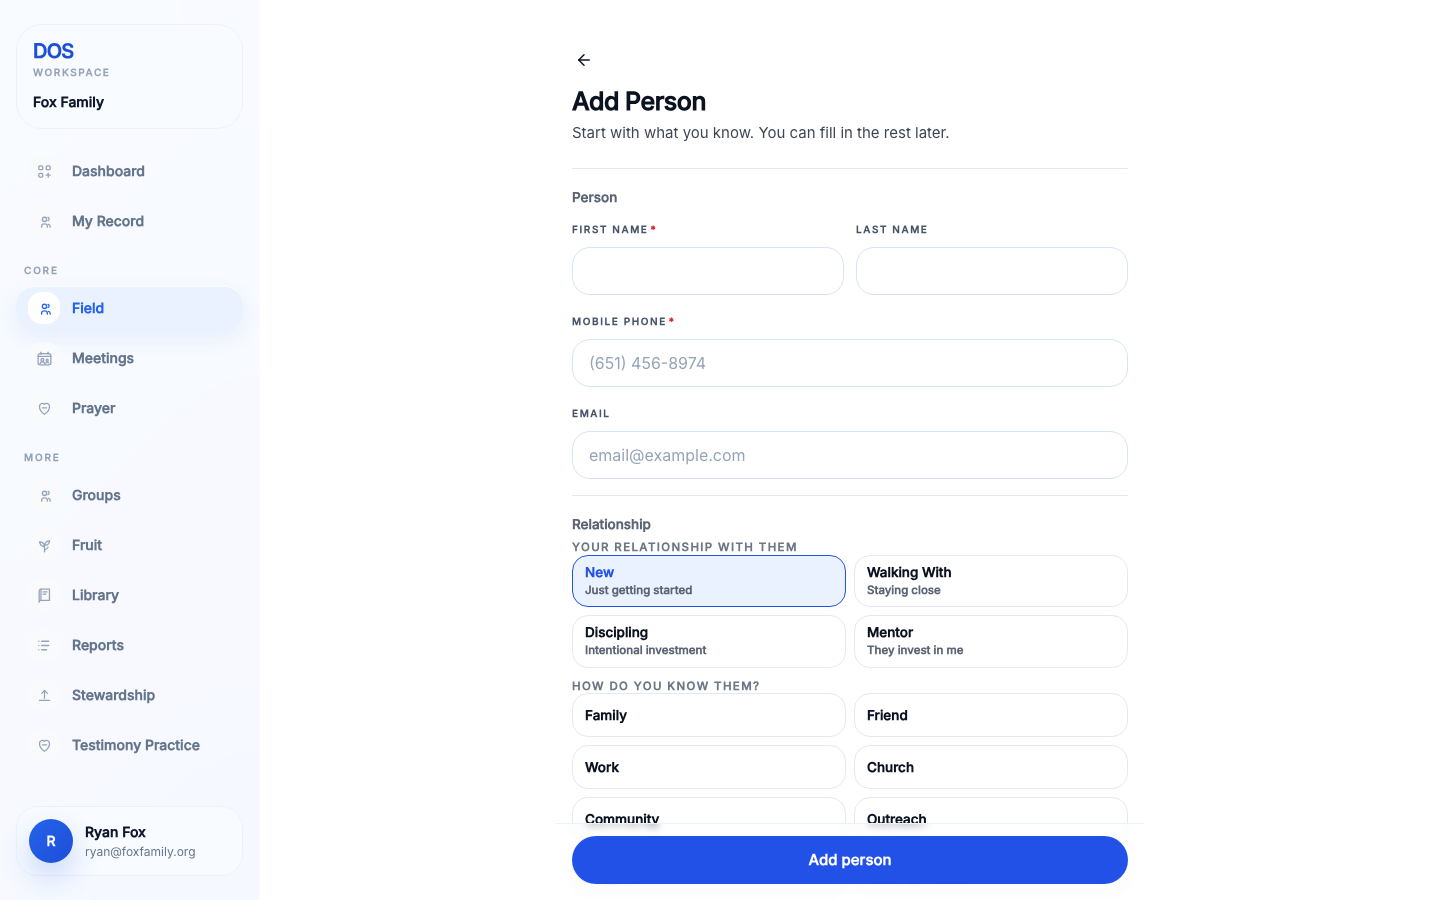
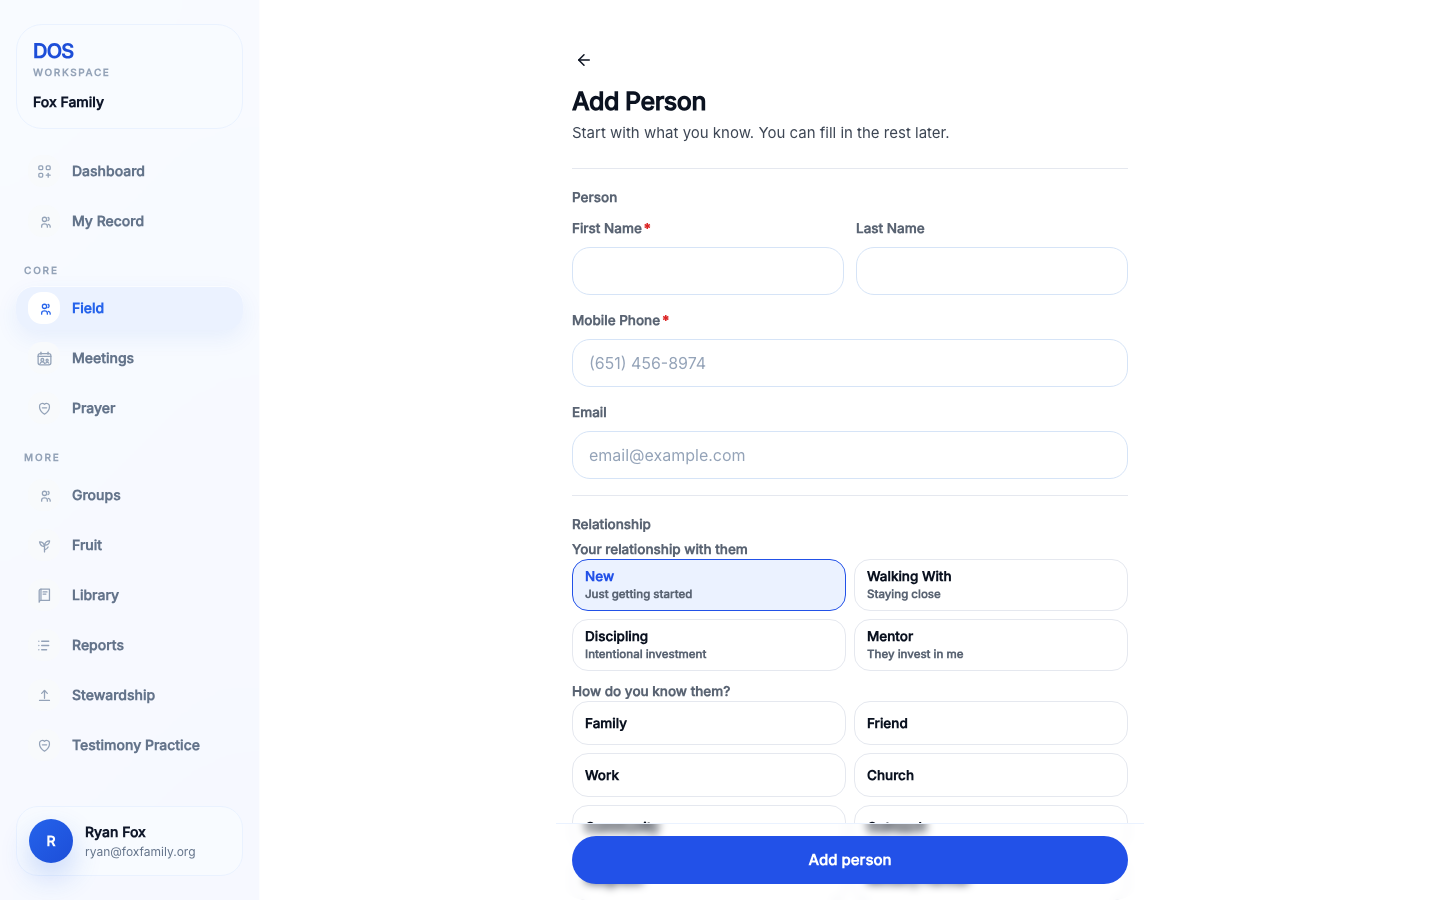
USA-217: sentence-case field labels across the Person and Schedule forms
DosDateInput gains an additive labelVariant; the Person form's 14 field
labels, Children label, two date inputs and the PersonChoiceField legends
(used only by this form), plus the Schedule date and the Log form's Remind
me date, adopt the spec §3 sentence-case label grammar. No field, default,
or behavior changed. typecheck, test:dos 40/40.

diff --git a/app/dos/app/DosMvpAppClient.tsx b/app/dos/app/DosMvpAppClient.tsx
@@ -4541,6 +4541,7 @@ function DosDateInput({
   maxYear = new Date().getFullYear() + 25,
   minYear = 1900,
   name,
+  labelVariant = "caps",
   onChange,
   required = false,
   value,
@@ -4549,6 +4550,8 @@ function DosDateInput({
   autoComplete?: string;
   defaultValue?: string | null;
   label?: ReactNode;
+  /** `caps` keeps the tracked-caps FieldLabel; `sentence` is the spec §3 label grammar (USA-217). */
+  labelVariant?: "caps" | "sentence";
   maxYear?: number;
   minYear?: number;
   name: string;
@@ -4649,7 +4652,7 @@ function DosDateInput({
 
   return (
     <div className="min-w-0">
-      {label ? <FieldLabel>{label}</FieldLabel> : null}
+      {label ? (labelVariant === "sentence" ? <span className="text-dos-label text-dos-secondary">{label}</span> : <FieldLabel>{label}</FieldLabel>) : null}
       <input name={name} readOnly type="hidden" value={isoValue} />
       <div className={`relative ${label ? "mt-2" : ""}`}>
         <input
@@ -21039,6 +21042,7 @@ function MeetingLeaderReflectionSection({
       <DosDateInput
         defaultValue={(followUpDateDefault ?? dateValueFromToday(1)).slice(0, 10)}
         label="Remind me"
+        labelVariant="sentence"
         name="follow_up_date"
       />
     </div>
@@ -21389,6 +21393,7 @@ function ScheduledTableTimingFields({
       <div className="max-w-[15rem]">
         <DosDateInput
           label="Date"
+          labelVariant="sentence"
           name={dateName}
           onChange={onDateChange}
           required
@@ -26595,7 +26600,7 @@ function PersonChoiceField({
 }) {
   return (
     <fieldset className="grid gap-2">
-      <legend className="text-[11px] font-bold uppercase tracking-[0.12em] text-dos-eyebrow">{label}</legend>
+      <legend className="text-dos-label text-dos-secondary">{label}</legend>
       {hint ? <p className="text-[12.5px] leading-[1.45] text-dos-secondary">{hint}</p> : null}
       {/* The selected value travels with the form as a plain field, so the
           submit path does not depend on this component's internals. */}
@@ -26879,14 +26884,14 @@ function PersonFormContent({
       <input name="children_names" type="hidden" value={householdDraftChildrenNames(householdDraft)} />
       <DosFormSection icon="people" title="Person" variant="label">
         <DosFormGrid>
-          <DosFormField label={<>First Name<RequiredMark /></>}>
+          <DosFormField labelVariant="sentence" label={<>First Name<RequiredMark /></>}>
             <input className={FieldInputClass()} onChange={(event) => setNameDraft((current) => ({ ...current, firstName: event.target.value }))} required value={nameDraft.firstName} />
           </DosFormField>
-          <DosFormField label="Last Name">
+          <DosFormField labelVariant="sentence" label="Last Name">
             <input className={FieldInputClass()} onChange={(event) => setNameDraft((current) => ({ ...current, lastName: event.target.value }))} value={nameDraft.lastName} />
           </DosFormField>
         </DosFormGrid>
-        <DosFormField label={<>Mobile Phone<RequiredMark /></>}>
+        <DosFormField labelVariant="sentence" label={<>Mobile Phone<RequiredMark /></>}>
           <input
             className={FieldInputClass()}
             inputMode="tel"
@@ -26901,7 +26906,7 @@ function PersonFormContent({
             value={formatPhoneNumber(phoneDraft)}
           />
         </DosFormField>
-        <DosFormField label="Email">
+        <DosFormField labelVariant="sentence" label="Email">
           <input
             className={FieldInputClass()}
             defaultValue={additionalDefaults?.email}
@@ -26985,17 +26990,17 @@ function PersonFormContent({
 
       <DisclosureSection defaultOpen={isEditMode || hasHouseholdDetails(additionalDefaults ?? {})} description="Spouse and children, kept selectable for tables." title="Household & Family">
         <DosFormGrid>
-          <DosFormField label="Spouse First Name">
+          <DosFormField labelVariant="sentence" label="Spouse First Name">
             <input className={FieldInputClass()} onChange={(event) => updateSpouseDraft("spouseFirstName", event.target.value)} value={householdDraft.spouseFirstName} />
           </DosFormField>
-          <DosFormField label="Spouse Last Name">
+          <DosFormField labelVariant="sentence" label="Spouse Last Name">
             <input className={FieldInputClass()} onChange={(event) => updateSpouseDraft("spouseLastName", event.target.value)} value={householdDraft.spouseLastName} />
           </DosFormField>
         </DosFormGrid>
-        <DosDateInput defaultValue={additionalDefaults?.anniversaryDate} label="Anniversary Date" name="anniversary_date" />
+        <DosDateInput defaultValue={additionalDefaults?.anniversaryDate} label="Anniversary Date" labelVariant="sentence" name="anniversary_date" />
         <div className="grid gap-2">
           <div className="flex items-center justify-between gap-3">
-            <FieldLabel>Children</FieldLabel>
+            <span className="text-dos-label text-dos-secondary">Children</span>
             <button
               className="inline-flex h-8 items-center rounded-full border border-[#BFDBFE] bg-white px-3 text-xs font-bold text-[#2563EB] transition-colors hover:bg-[#EBF2FF]"
               onClick={addChildDraft}
@@ -27008,10 +27013,10 @@ function PersonFormContent({
             {householdDraft.children.map((child, index) => (
               <div className="grid gap-2 rounded-[18px] border border-[#E2E8F0] bg-white p-2" key={child.id}>
                 <div className="grid gap-2 min-[420px]:grid-cols-[minmax(0,1fr)_minmax(0,1fr)_32px]">
-                  <DosFormField label="Child First Name">
+                  <DosFormField labelVariant="sentence" label="Child First Name">
                     <input className={FieldInputClass()} onChange={(event) => updateChildDraft(child.id, "firstName", event.target.value)} value={child.firstName} />
                   </DosFormField>
-                  <DosFormField label="Child Last Name">
+                  <DosFormField labelVariant="sentence" label="Child Last Name">
                     <input className={FieldInputClass()} onChange={(event) => updateChildDraft(child.id, "lastName", event.target.value)} value={child.lastName} />
                   </DosFormField>
                   <button
@@ -27030,29 +27035,29 @@ function PersonFormContent({
       </DisclosureSection>
 
       <DisclosureSection defaultOpen={isEditMode || hasAddressData} description="Address, church, birthday, and other details." title="Address & Details">
-        <DosFormField label="Home Address">
+        <DosFormField labelVariant="sentence" label="Home Address">
           <input className={FieldInputClass()} defaultValue={additionalDefaults?.homeAddress} name="home_address" placeholder="Street address" />
         </DosFormField>
         <div className="grid gap-3 min-[420px]:grid-cols-[minmax(0,1fr)_72px_86px]">
-          <DosFormField label="City">
+          <DosFormField labelVariant="sentence" label="City">
             <input className={FieldInputClass()} defaultValue={additionalDefaults?.city} name="city" />
           </DosFormField>
-          <DosFormField label="State">
+          <DosFormField labelVariant="sentence" label="State">
             <input className={FieldInputClass()} defaultValue={additionalDefaults?.state} maxLength={2} name="state" />
           </DosFormField>
-          <DosFormField label="ZIP">
+          <DosFormField labelVariant="sentence" label="ZIP">
             <input className={FieldInputClass()} defaultValue={additionalDefaults?.zip} inputMode="numeric" name="zip" />
           </DosFormField>
         </div>
         <DosFormGrid>
-          <DosFormField label="Church">
+          <DosFormField labelVariant="sentence" label="Church">
             <input className={FieldInputClass()} defaultValue={additionalDefaults?.church} name="church" placeholder="Church / community" />
           </DosFormField>
-          <DosFormField label="Occupation">
+          <DosFormField labelVariant="sentence" label="Occupation">
             <input className={FieldInputClass()} defaultValue={additionalDefaults?.occupation} name="occupation" placeholder="What do they do?" />
           </DosFormField>
         </DosFormGrid>
-        <DosDateInput autoComplete="bday" defaultValue={additionalDefaults?.birthday} label="Birthday" maxYear={new Date().getFullYear()} name="birthday" />
+        <DosDateInput autoComplete="bday" defaultValue={additionalDefaults?.birthday} label="Birthday" labelVariant="sentence" maxYear={new Date().getFullYear()} name="birthday" />
       </DisclosureSection>
 
       {/* Creating a person is the one moment where a birthday or a surgery date

diff --git a/docs/dos-ui-refresh/phase-5/usa-217-schedule-meeting-and-add-person.md b/docs/dos-ui-refresh/phase-5/usa-217-schedule-meeting-and-add-person.md
@@ -5,10 +5,10 @@ Branch `ryan/usa-217-schedule-and-person-pilot` (stacked on USA-216). Implements
 ## Routes / components changed
 | Where | Change |
 | --- | --- |
-| `ScheduleMeetingForm` | Sections Person, When, How will you connect? adopt `DosFormSection variant="label"`; the Start time / Duration pair uses sentence-case labels; primary becomes the spec `Button` reading **"Schedule"** (spec §6) inside the unchanged `StickyFormFooter`. Person picker, hidden `table_role` and `google_sync_enabled`, Notes disclosure, Google sync toggle, invitation behavior unchanged. |
+| `ScheduleMeetingForm` | Sections Person, When, How will you connect? adopt `DosFormSection variant="label"`; the Date / Start time / Duration fields use sentence-case labels (the Log form's "Remind me" date label too); primary becomes the spec `Button` reading **"Schedule"** (spec §6) inside the unchanged `StickyFormFooter`. Person picker, hidden `table_role` and `google_sync_enabled`, Notes disclosure, Google sync toggle, invitation behavior unchanged. |
 | `ScheduledDurationSelect` | Preset menu (30 / 45 / 60 / 90 / 120 + Custom minutes) → shared `Stepper`, 15-minute steps, minimum 15, no ceiling; same hidden field name and default (60); an existing scheduled duration keeps its exact minutes. |
 | `MeetingPeopleSelector` (shared by Log's search mode and Schedule) | Selected-people chips use the shared `Chip` with the same `Remove <name> <context>` labels; search input and results unchanged. |
-| `PersonFormContent` (Add / Edit Person) | Sections Person and Relationship adopt `variant="label"`; primary becomes the spec `Button`; labels "Add person" / "Save person" (spec §6). The USA-168 Basic form, its three questions, the Engagement disclosure (flag-gated), Household & Family / Address & Details / Notes disclosures, duplicate detection, and Save-outranks-Delete are unchanged. |
+| `PersonFormContent` (Add / Edit Person) | Sections Person and Relationship adopt `variant="label"`; all 14 field labels, the Children label, the two date inputs (via an additive `DosDateInput labelVariant`), and the `PersonChoiceField` legends (relationship, how you know them, person role — used only by this form) move to the sentence-case 13.5/600 grammar; primary becomes the spec `Button`; labels "Add person" / "Save person" (spec §6). The USA-168 Basic form, its three questions, the Engagement disclosure (flag-gated), Household & Family / Address & Details / Notes disclosures, duplicate detection, and Save-outranks-Delete are unchanged. |
 | `scripts/dos-field-contact-form-regression.mjs` | **Retired and rewritten (Phase 1 S7).** The July script asserted a pre-USA-168 section order ("Relationship & Ministry" as a disclosure, an `ImportantDatesReminderSection`, `showDetailsToggle`) that has not existed since 2026-09-04 and was the one pre-existing failure recorded in Phase 0. The replacement asserts the shipped USA-168 shape (Person → Relationship → optional Engagement → Household & Family → Address & Details → Notes; email in the Person section; independent disclosures; duplicate detection wired; sticky footer) and is added to `test:dos`. |
 
 ## Behavior intentionally preserved
